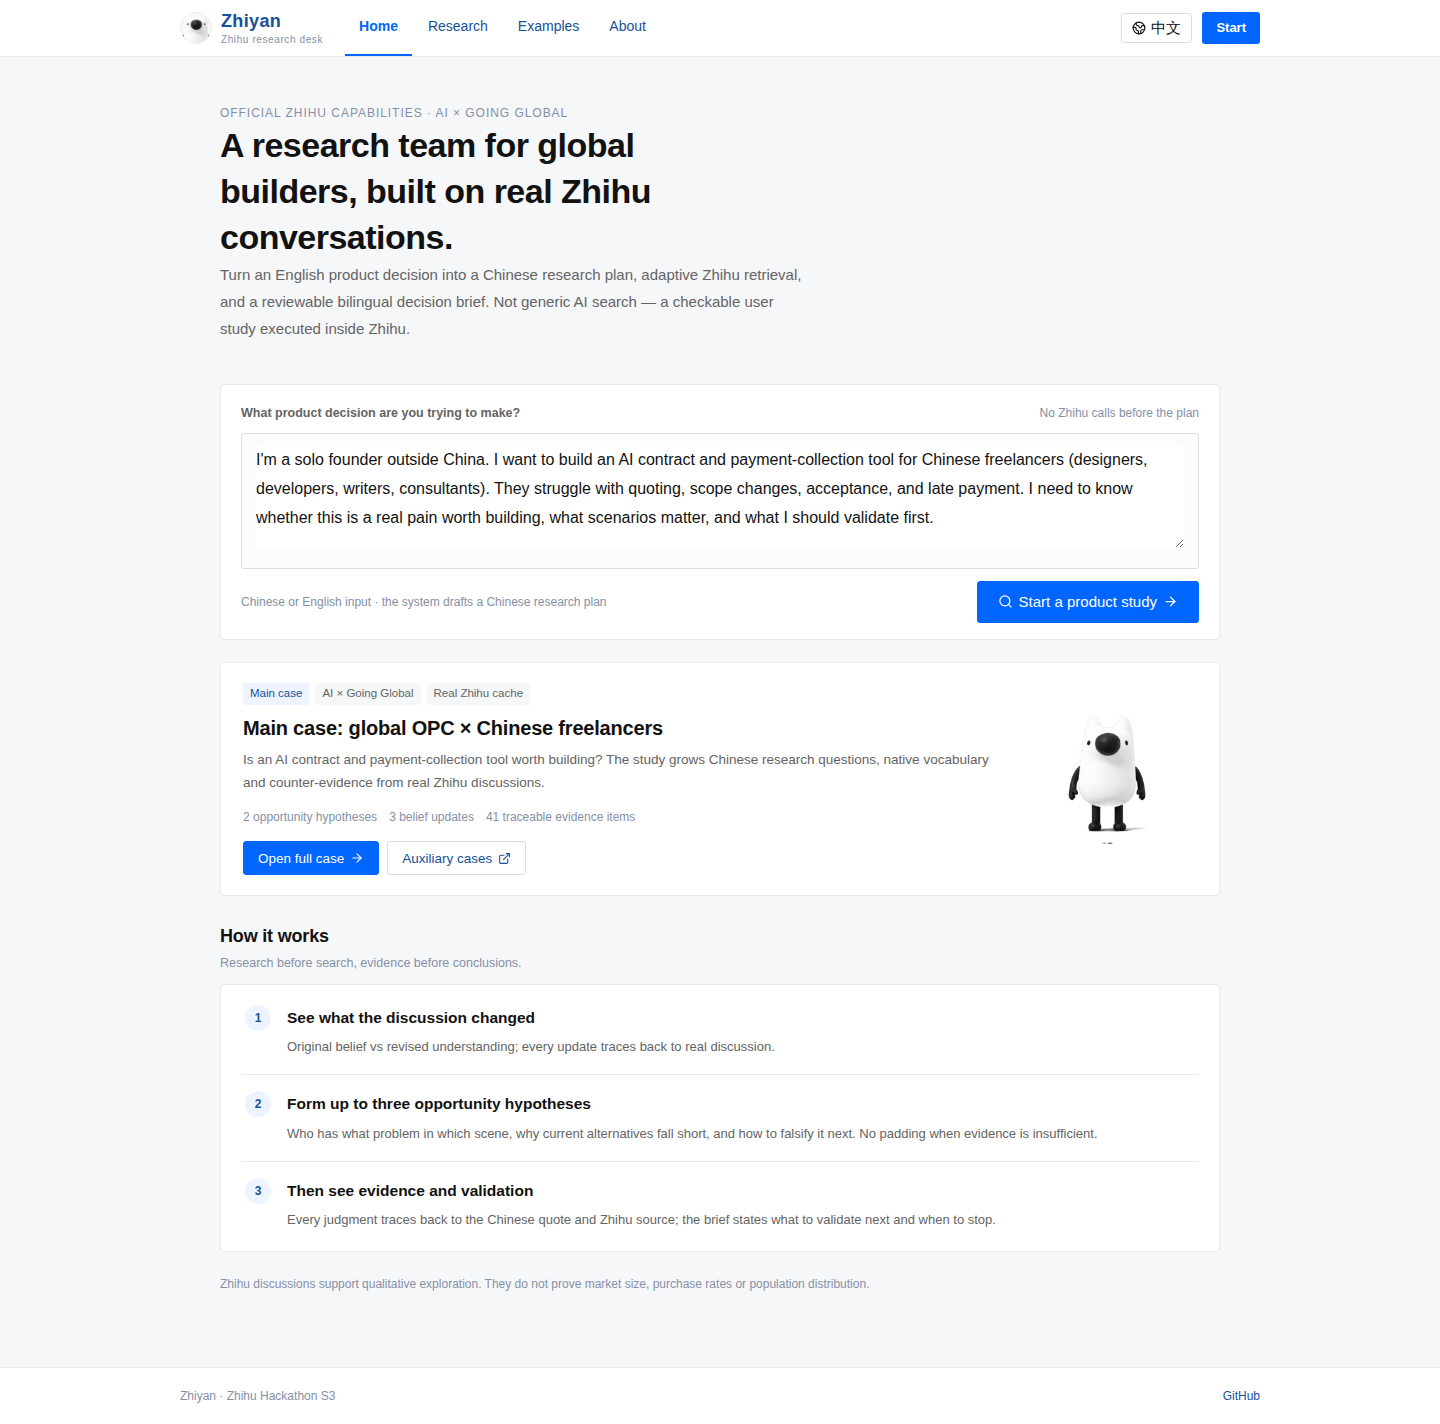
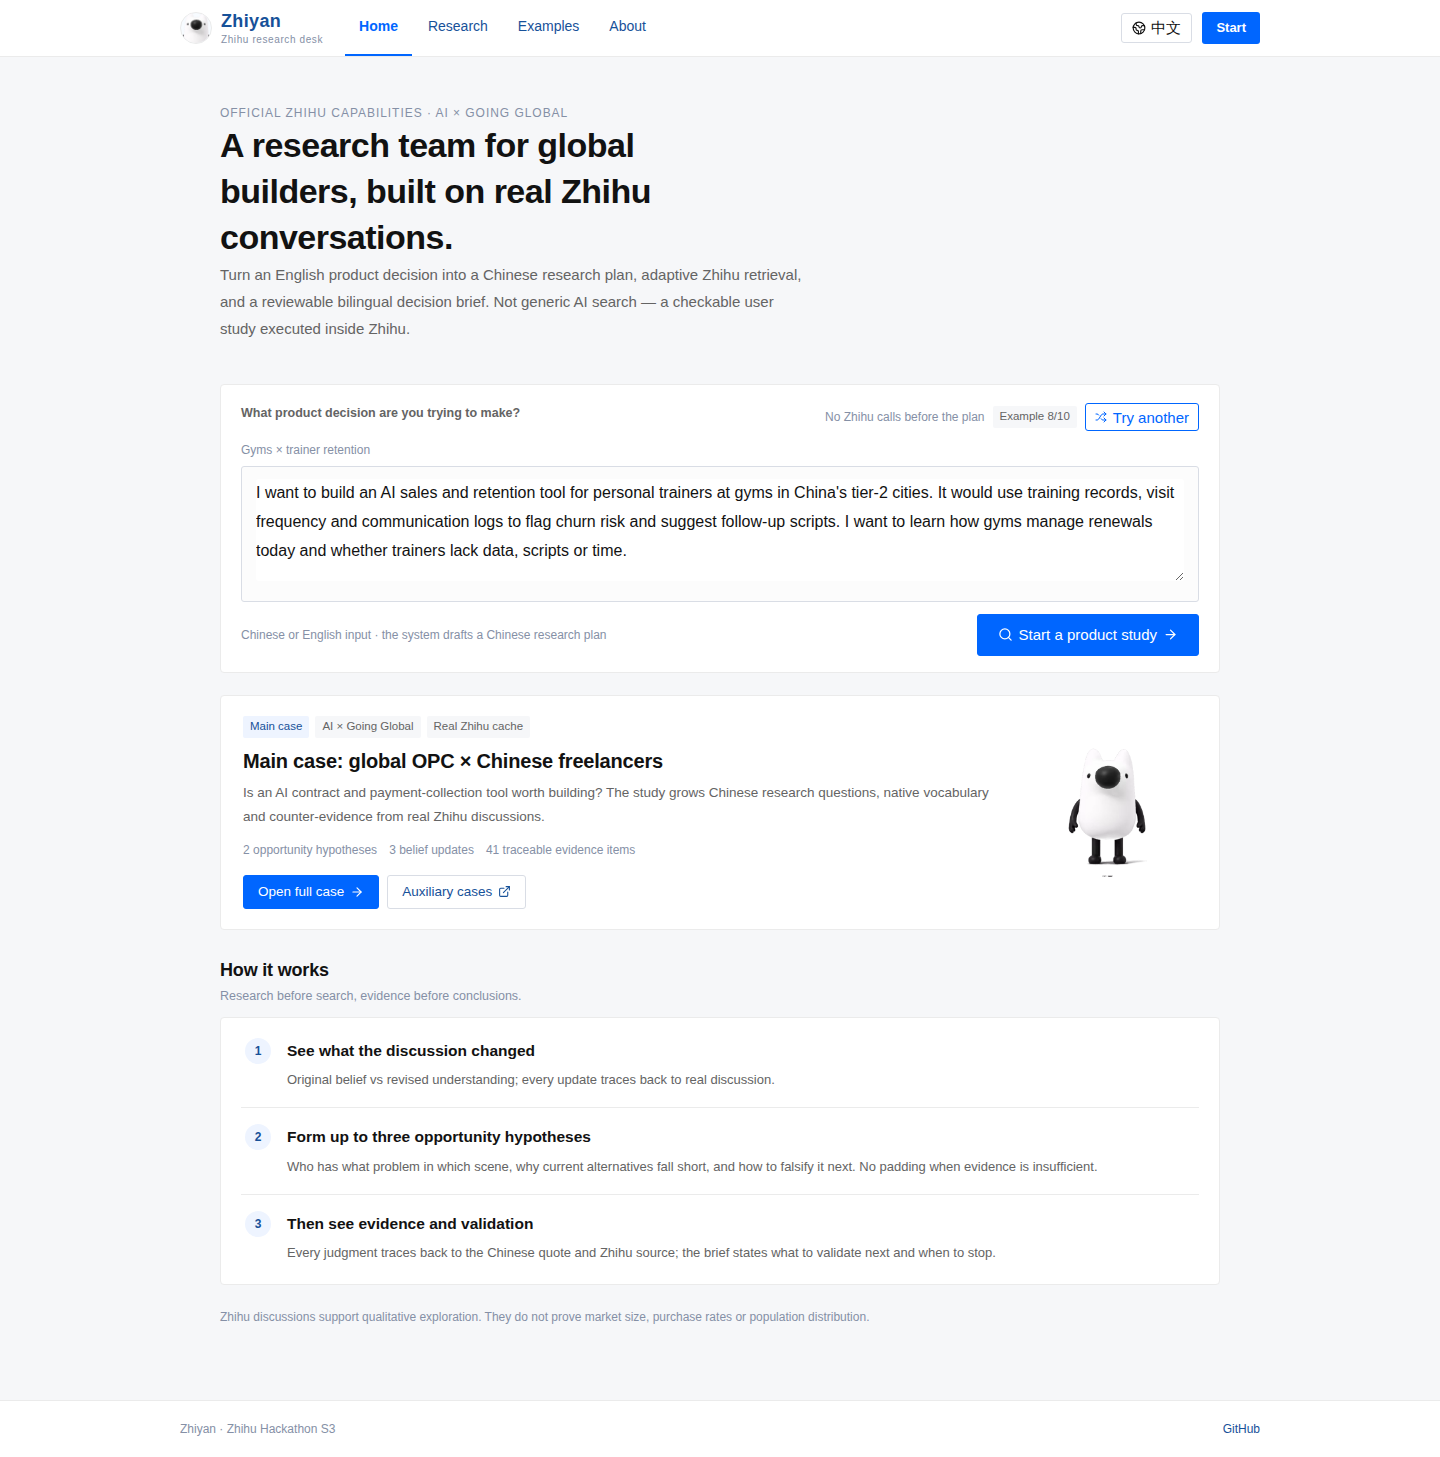
Add ten playable product briefs and a random picker on the home page
- Add ten bilingual OPC/product-decision examples across freelancers, parents,
  cafés, students, pet owners, cross-border sellers, illustrators, gyms,
  teachers and aging/medication
- Add a shuffle button with example index; text follows interface language
- Keep the main case as the default and preserve the research-plan flow

diff --git a/lib/v2/play-briefs.ts b/lib/v2/play-briefs.ts
@@ -1,0 +1,89 @@
+export interface PlayBrief {
+  id: string;
+  labelZh: string;
+  labelEn: string;
+  textZh: string;
+  textEn: string;
+}
+
+export const PLAY_BRIEFS: PlayBrief[] = [
+  {
+    id: "freelancer-contract",
+    labelZh: "自由职业 × 合同回款",
+    labelEn: "Freelancers × contracts",
+    textZh: "我是一个海外独立开发者，想为中国自由职业者（设计师、开发者、撰稿人、顾问）做一款 AI 合同与回款工具。他们在报价、改需求、验收和尾款上经常出问题。我想先确认这是不是值得做的真实痛点、哪些场景最重要，以及下一步最该验证什么。",
+    textEn: "I'm a solo founder outside China. I want to build an AI contract and payment-collection tool for Chinese freelancers (designers, developers, writers, consultants). They struggle with quoting, scope changes, acceptance and late payment. I need to know whether this is a real pain worth building, what scenarios matter, and what I should validate first.",
+  },
+  {
+    id: "baby-food",
+    labelZh: "新手父母 × 辅食",
+    labelEn: "New parents × baby food",
+    textZh: "我想为中国一二线城市的新手父母做一款 AI 辅食计划工具，帮他们按宝宝月龄安排每周食谱、生成采购清单，并减少「不知道做什么、做了不吃」的焦虑。我想先确认父母现在到底怎么解决辅食问题，哪些环节最费时间，以及是否值得做成独立产品。",
+    textEn: "I want to build an AI baby-food planning tool for new parents in China's major cities: weekly meal plans by age, shopping lists, and less anxiety around 'what to make and what the baby refuses.' I want to understand how parents currently solve this, which step is most time-consuming, and whether it deserves a standalone product.",
+  },
+  {
+    id: "coffee-shop",
+    labelZh: "独立咖啡店 × 排班库存",
+    labelEn: "Cafés × scheduling & stock",
+    textZh: "我想为中国的独立咖啡店做一款 AI 排班和库存工具，根据天气、节假日和附近活动预测客流，减少高峰期人手不足和原料浪费。我想先确认店主现在怎么做决定，最痛的是排班还是库存，以及他们会不会为这种工具付费。",
+    textEn: "I want to build an AI scheduling and inventory tool for independent coffee shops in China, forecasting footfall from weather, holidays and local events to reduce understaffing and waste. I want to learn how owners make these decisions today, whether scheduling or inventory hurts more, and whether they would pay.",
+  },
+  {
+    id: "student-job",
+    labelZh: "留学生 × 求职",
+    labelEn: "International students × jobs",
+    textZh: "我想为准备回国求职的中国留学生做一款 AI 简历和面试准备工具，帮他们把海外经历翻译成国内 HR 能理解的项目语言，并针对目标岗位模拟面试。我想先确认他们现在最卡在哪一步，是简历、投递、笔试还是面试，以及通用 AI 为什么不够。",
+    textEn: "I want to build an AI resume and interview-prep tool for Chinese students returning from overseas. It would translate international experience into language Chinese HR understands and run role-specific mock interviews. I want to know where they get stuck today—resume, applications, tests or interviews—and why general AI is not enough.",
+  },
+  {
+    id: "pet-health",
+    labelZh: "宠物主 × 健康记录",
+    labelEn: "Pet owners × health records",
+    textZh: "我想为中国城市里的宠物主做一款 AI 宠物健康记录工具，帮他们整理疫苗、驱虫、体重、就诊和用药记录，并在异常时提醒何时该去医院，而不是在线诊断。我想先确认宠物主现在怎么记录、最担心什么，以及这个需求是否足够高频。",
+    textEn: "I want to build an AI pet-health record tool for urban pet owners in China: vaccines, deworming, weight, vet visits and medication, with prompts on when to see a vet rather than online diagnosis. I want to understand how owners track this now, what worries them most, and whether the need is frequent enough.",
+  },
+  {
+    id: "cross-border-support",
+    labelZh: "跨境卖家 × 多语言客服",
+    labelEn: "Cross-border sellers × support",
+    textZh: "我想为中国跨境电商卖家做一款 AI 多语言客服工具，处理售前咨询、物流查询、退换货和差评回复，并保留平台规则和品牌语气。我想先确认卖家现在怎么处理多语言客服，最耗时的是哪类问题，以及他们更愿意买工具还是外包。",
+    textEn: "I want to build an AI multilingual customer-support tool for Chinese cross-border sellers, covering pre-sales questions, logistics, returns and negative reviews while respecting platform rules and brand voice. I want to learn how sellers handle multilingual support today, which questions take the most time, and whether they prefer software or outsourcing.",
+  },
+  {
+    id: "illustrator-rights",
+    labelZh: "插画师 × 版权接单",
+    labelEn: "Illustrators × rights & clients",
+    textZh: "我想为中国自由插画师做一款 AI 接单和版权管理工具，帮他们管理报价、修改次数、交付文件、授权范围和客户沟通记录。我想先确认插画师现在最常遇到的纠纷是什么，哪些环节最需要工具，以及他们是否愿意把接单流程搬到一个新工具里。",
+    textEn: "I want to build an AI client and rights-management tool for freelance illustrators in China: quotes, revision limits, deliverable files, licensing scope and client communication records. I want to understand the most common disputes, which steps need software most, and whether illustrators would move their workflow into a new tool.",
+  },
+  {
+    id: "gym-retention",
+    labelZh: "健身房 × 私教续费",
+    labelEn: "Gyms × trainer retention",
+    textZh: "我想为中国二线城市的健身房做一款 AI 私教销售和续费工具，帮教练根据会员训练记录、到店频率和沟通记录判断谁有流失风险，并生成合适的跟进话术。我想先确认健身房现在怎么管理续费，教练真正缺的是数据、话术还是时间。",
+    textEn: "I want to build an AI sales and retention tool for personal trainers at gyms in China's tier-2 cities. It would use training records, visit frequency and communication logs to flag churn risk and suggest follow-up scripts. I want to learn how gyms manage renewals today and whether trainers lack data, scripts or time.",
+  },
+  {
+    id: "teacher-prep",
+    labelZh: "中学教师 × 备课沟通",
+    labelEn: "Teachers × lesson prep",
+    textZh: "我想为中国中学教师做一款 AI 备课和家校沟通工具，帮他们根据教材和学情生成分层练习、课堂活动，并把学生情况整理成家长能理解的反馈。我想先确认教师现在最花时间的工作是什么，学校采购和教师自用的差别在哪里，以及合规边界是什么。",
+    textEn: "I want to build an AI lesson-prep and parent-communication tool for Chinese secondary-school teachers: differentiated exercises, classroom activities and parent-friendly student feedback. I want to understand where teachers spend the most time, how school procurement differs from teacher self-serve, and what the compliance boundaries are.",
+  },
+  {
+    id: "elder-medication",
+    labelZh: "适老化 × 用药提醒",
+    labelEn: "Aging × medication",
+    textZh: "我想为中国城市里的独居老人和他们的子女做一款适老化用药提醒工具，支持语音提醒、子女远程查看和异常联系，但不做在线诊断。我想先确认老人和子女现在怎么协作，最担心的是忘吃药、吃错药还是无人响应，以及这个产品该由谁付钱。",
+    textEn: "I want to build an age-friendly medication-reminder tool for older adults living alone in Chinese cities and their adult children: voice reminders, remote visibility and escalation, but no online diagnosis. I want to understand how families coordinate today, whether the biggest fear is missed doses, wrong doses or no response, and who would pay.",
+  },
+];
+
+export function randomPlayBrief(currentId?: string): PlayBrief {
+  const pool = currentId ? PLAY_BRIEFS.filter((item) => item.id !== currentId) : PLAY_BRIEFS;
+  return pool[Math.floor(Math.random() * pool.length)] ?? PLAY_BRIEFS[0];
+}
+
+export function playBriefById(id: string): PlayBrief | undefined {
+  return PLAY_BRIEFS.find((item) => item.id === id);
+}

diff --git a/app/page.tsx b/app/page.tsx
@@ -3,10 +3,10 @@
 import { useEffect, useState } from "react";
 import { useRouter } from "next/navigation";
 import Link from "next/link";
-import { ArrowRight, BookOpen, ExternalLink, Search, Sparkles } from "lucide-react";
+import { ArrowRight, BookOpen, ExternalLink, Search, Shuffle, Sparkles } from "lucide-react";
 import { Kanshan } from "./components/Kanshan";
 import { useLang } from "./components/LanguageProvider";
-import { MAIN_CASE_BRIEF, MAIN_CASE_BRIEF_ZH } from "../lib/v2/copy";
+import { PLAY_BRIEFS, playBriefById, randomPlayBrief } from "../lib/v2/play-briefs";
 import type { DemoSummaryV2, Lang, ResearchPlanV2 } from "../lib/v2/types";
 
 interface Recent {
@@ -19,14 +19,25 @@ export default function HomePage() {
   const router = useRouter();
   const { lang, t } = useLang();
   const [brief, setBrief] = useState("");
+  const [briefId, setBriefId] = useState("freelancer-contract");
   const [busy, setBusy] = useState(false);
   const [error, setError] = useState("");
   const [demos, setDemos] = useState<DemoSummaryV2[]>([]);
   const [recent, setRecent] = useState<Recent[]>([]);
 
+  const selectedBrief = playBriefById(briefId) ?? PLAY_BRIEFS[0];
+  const briefIndex = PLAY_BRIEFS.findIndex((item) => item.id === selectedBrief.id);
+
   useEffect(() => {
-    setBrief(lang === "zh" ? MAIN_CASE_BRIEF_ZH : MAIN_CASE_BRIEF);
-  }, [lang]);
+    const selected = playBriefById(briefId) ?? PLAY_BRIEFS[0];
+    setBrief(lang === "zh" ? selected.textZh : selected.textEn);
+  }, [lang, briefId]);
+
+  function randomizeBrief() {
+    const next = randomPlayBrief(briefId);
+    setBriefId(next.id);
+    setError("");
+  }
 
   useEffect(() => {
     fetch("/api/v2/demos")
@@ -82,9 +93,18 @@ export default function HomePage() {
       </section>
 
       <section className="v2-card v2-home-brief">
-        <div className="v2-between" style={{ marginBottom: 9 }}>
+        <div className="v2-between v2-home-brief-head" style={{ marginBottom: 9 }}>
           <span className="v2-label">{t("home.briefLabel")}</span>
-          <span className="v2-mini v2-muted">{lang === "zh" ? "生成计划前不调用知乎" : "No Zhihu calls before the plan"}</span>
+          <div className="v2-row" style={{ gap: 8 }}>
+            <span className="v2-mini v2-muted">{lang === "zh" ? "生成计划前不调用知乎" : "No Zhihu calls before the plan"}</span>
+            <span className="v2-tag" data-testid="v21-brief-index">{lang === "zh" ? `示例 ${briefIndex + 1}/${PLAY_BRIEFS.length}` : `Example ${briefIndex + 1}/${PLAY_BRIEFS.length}`}</span>
+            <button className="v2-btn v2-btn-sm" type="button" data-testid="v21-random-brief" onClick={randomizeBrief} disabled={busy} title={lang === "zh" ? "随机换一个产品问题" : "Try another product decision"}>
+              <Shuffle size={12} /> {lang === "zh" ? "随机换一个" : "Try another"}
+            </button>
+          </div>
+        </div>
+        <div className="v2-mini v2-muted" style={{ marginBottom: 6 }}>
+          {lang === "zh" ? selectedBrief.labelZh : selectedBrief.labelEn}
         </div>
         <div className="v2-home-brief-box">
           <textarea

diff --git a/app/v2.css b/app/v2.css
@@ -560,3 +560,11 @@
 .v21-progress-meta { display: flex; flex-wrap: wrap; gap: 14px; margin-top: 12px; padding-top: 10px; border-top: 1px solid var(--z-line); color: var(--z-muted); font-size: 11.5px; }
 .v21-job-error { display: flex; align-items: center; gap: 8px; margin-top: 12px; padding: 10px 12px; border: 1px solid #f0c8c4; background: #fff7f6; color: var(--z-red); font-size: 12px; }
 .v21-job-error span { flex: 1; }
+
+/* Home random brief picker */
+.v2-home-brief-head { align-items: flex-start; }
+.v2-home-brief-head .v2-row { flex-wrap: wrap; justify-content: flex-end; }
+@media (max-width: 680px) {
+  .v2-home-brief-head { flex-direction: column; gap: 6px; }
+  .v2-home-brief-head .v2-row { justify-content: flex-start; }
+}

diff --git a/docs/v2.1/acceptance-checklist.md b/docs/v2.1/acceptance-checklist.md
@@ -49,6 +49,7 @@
 - 证据 Tab 搁置当前样本后，页面仍正常并重算；关键证据移除测试由 `verify-v21` 覆盖。
 - 1440 / 1024 / 768 / 390 四档对首页、计划、示例、决策简报、研究过程、证据质检无横向溢出。
 - 后台任务：计划页确认后立即跳转 `/workbench?job=...`，显示“研究进行中·未完成”，不输出最终建议；任务完成后自动进入三 Tab 简报（实测约 530 秒、3 轮）。
+- 首页内置 10 个产品问题；“随机换一个”连续点击可切换，文本与示例编号同步更新；390px 无横向溢出。
 - 外部 3–5 人用户测试仍未执行。
 
 ## M5 最终验证

diff --git a/README.md b/README.md
@@ -44,7 +44,7 @@ cp .env.example .env.local   # 填入知乎 Access Secret 与 LLM 配置
 npm run dev                  # http://localhost:3000
 ```
 
-- 首页：`/`
+- 首页：`/`（内置 10 个可随机切换的产品问题，点「随机换一个」即可试玩）
 - 主案例缓存：`/workbench?demo=main-case`（离线可用，不消耗接口）
 - 示例库：`/examples`
 - 产品说明：`/plan`
